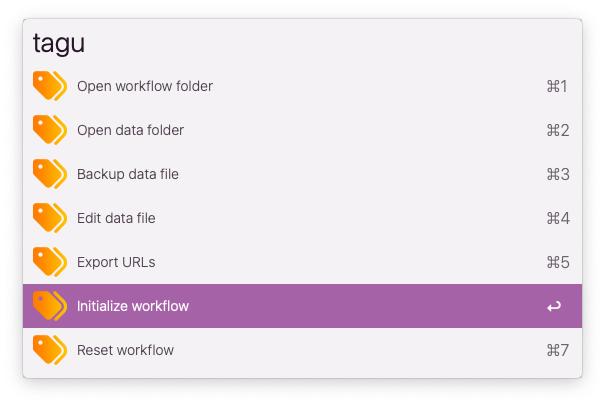
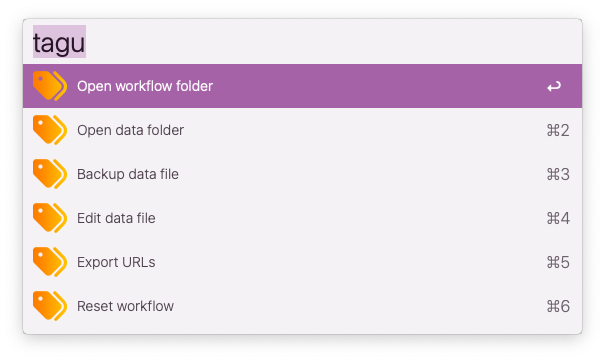
.

Changed region(s): [[0.0298, 0.0305, 0.9818, 0.9446], [0.8926, 0.5789, 0.9521, 0.6704]]

diff --git a/README.md b/README.md
@@ -30,21 +30,9 @@ Easy — just press a bunch of the option keys to start saving, finding & viewin
 
 ![tag](assets/tag.png)  
 
-### Initialize workflow
-
-▸ In *Configure Workflow*: 1) Select browser preference ∙ 2) Select tagging preference for browser window(s)
-
-▸ Initialize the workflow to create the underlying data file *(see below)*
-
-![tagu](assets/tagu.png)   
-
-<kbd>↵</kbd>  Initialize the workflow
-
-<kbd>⌘</kbd><kbd>↵</kbd> Reset data files (destructive action, will delete all existing data)
-
 ### Tag something
 
-Tag emails, files, folders or browser tabs. Keep typing to create a new tag. Or select an existing tag.
+To get started... tag emails, files, folders or browser tabs. Keep typing to create a new tag. Or select an existing tag.
 
 ![tagi](assets/tagi.png)   
 
@@ -101,3 +89,13 @@ Show a list of the most recently opened items. Start typing to filter the list b
 ![tagr](assets/tagr.png)  
 
 <kbd>↵</kbd>  Open the selected item
+
+### Run a utility command
+
+Some useful commands to do some maintenance or move around this workflow
+
+![tagu](assets/tagu.png)   
+
+Choose the command to run. 
+
+*Note:* `Reset workflow` *will remove all data to start over.*
